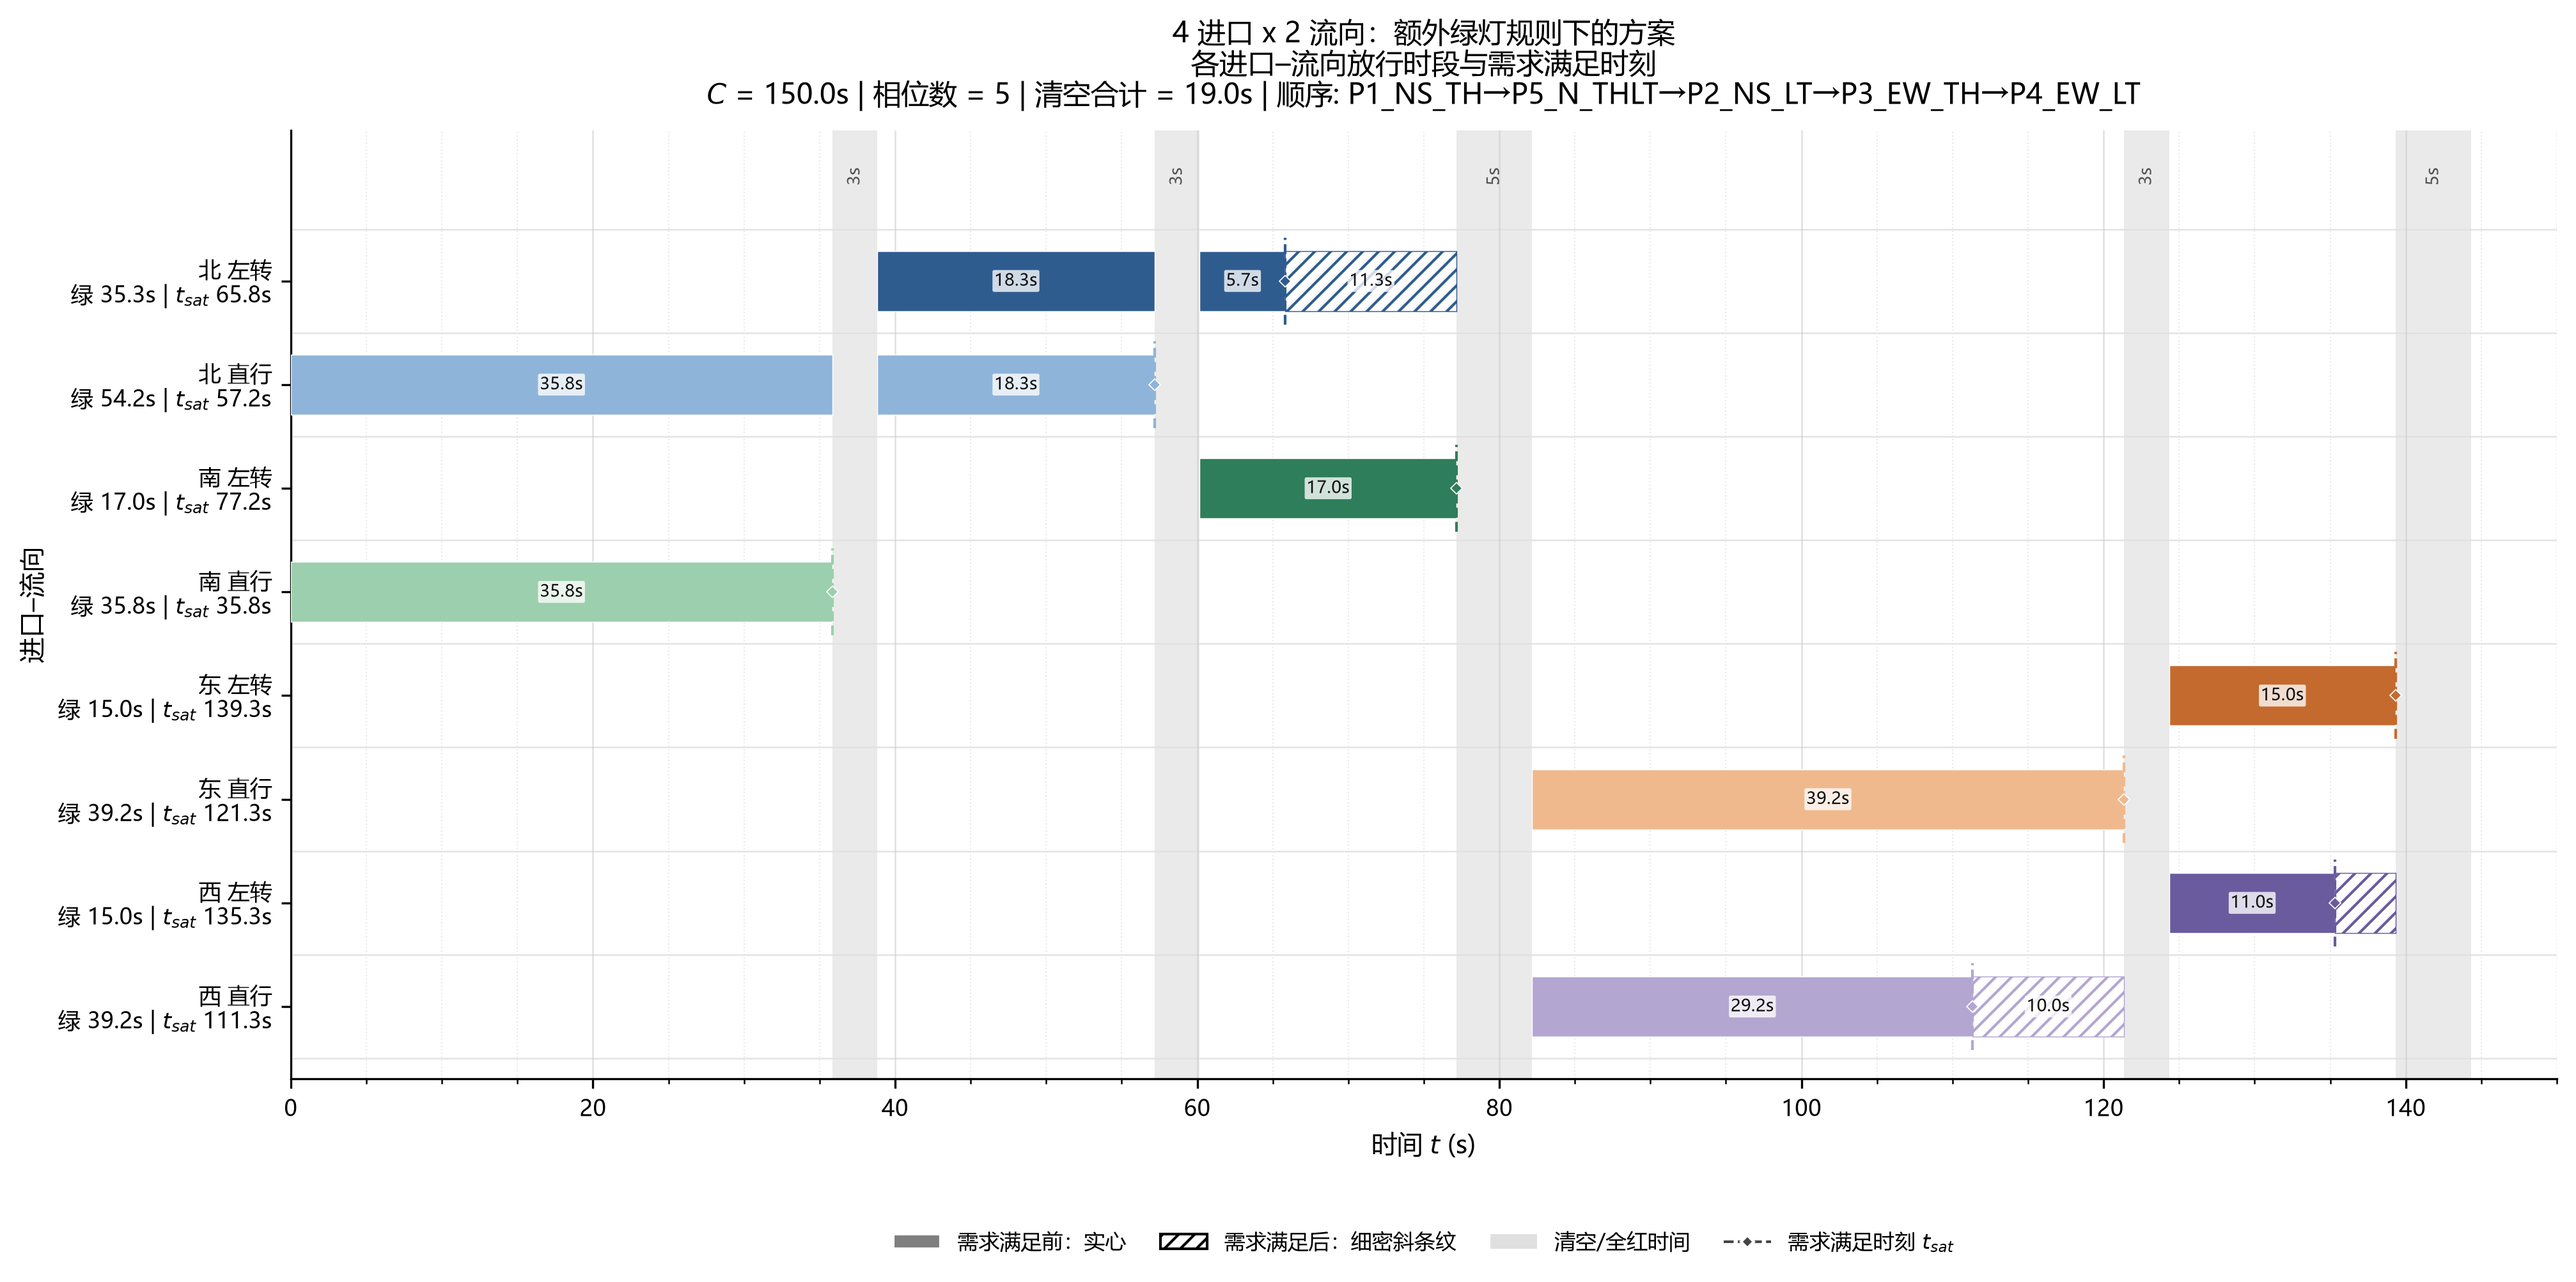
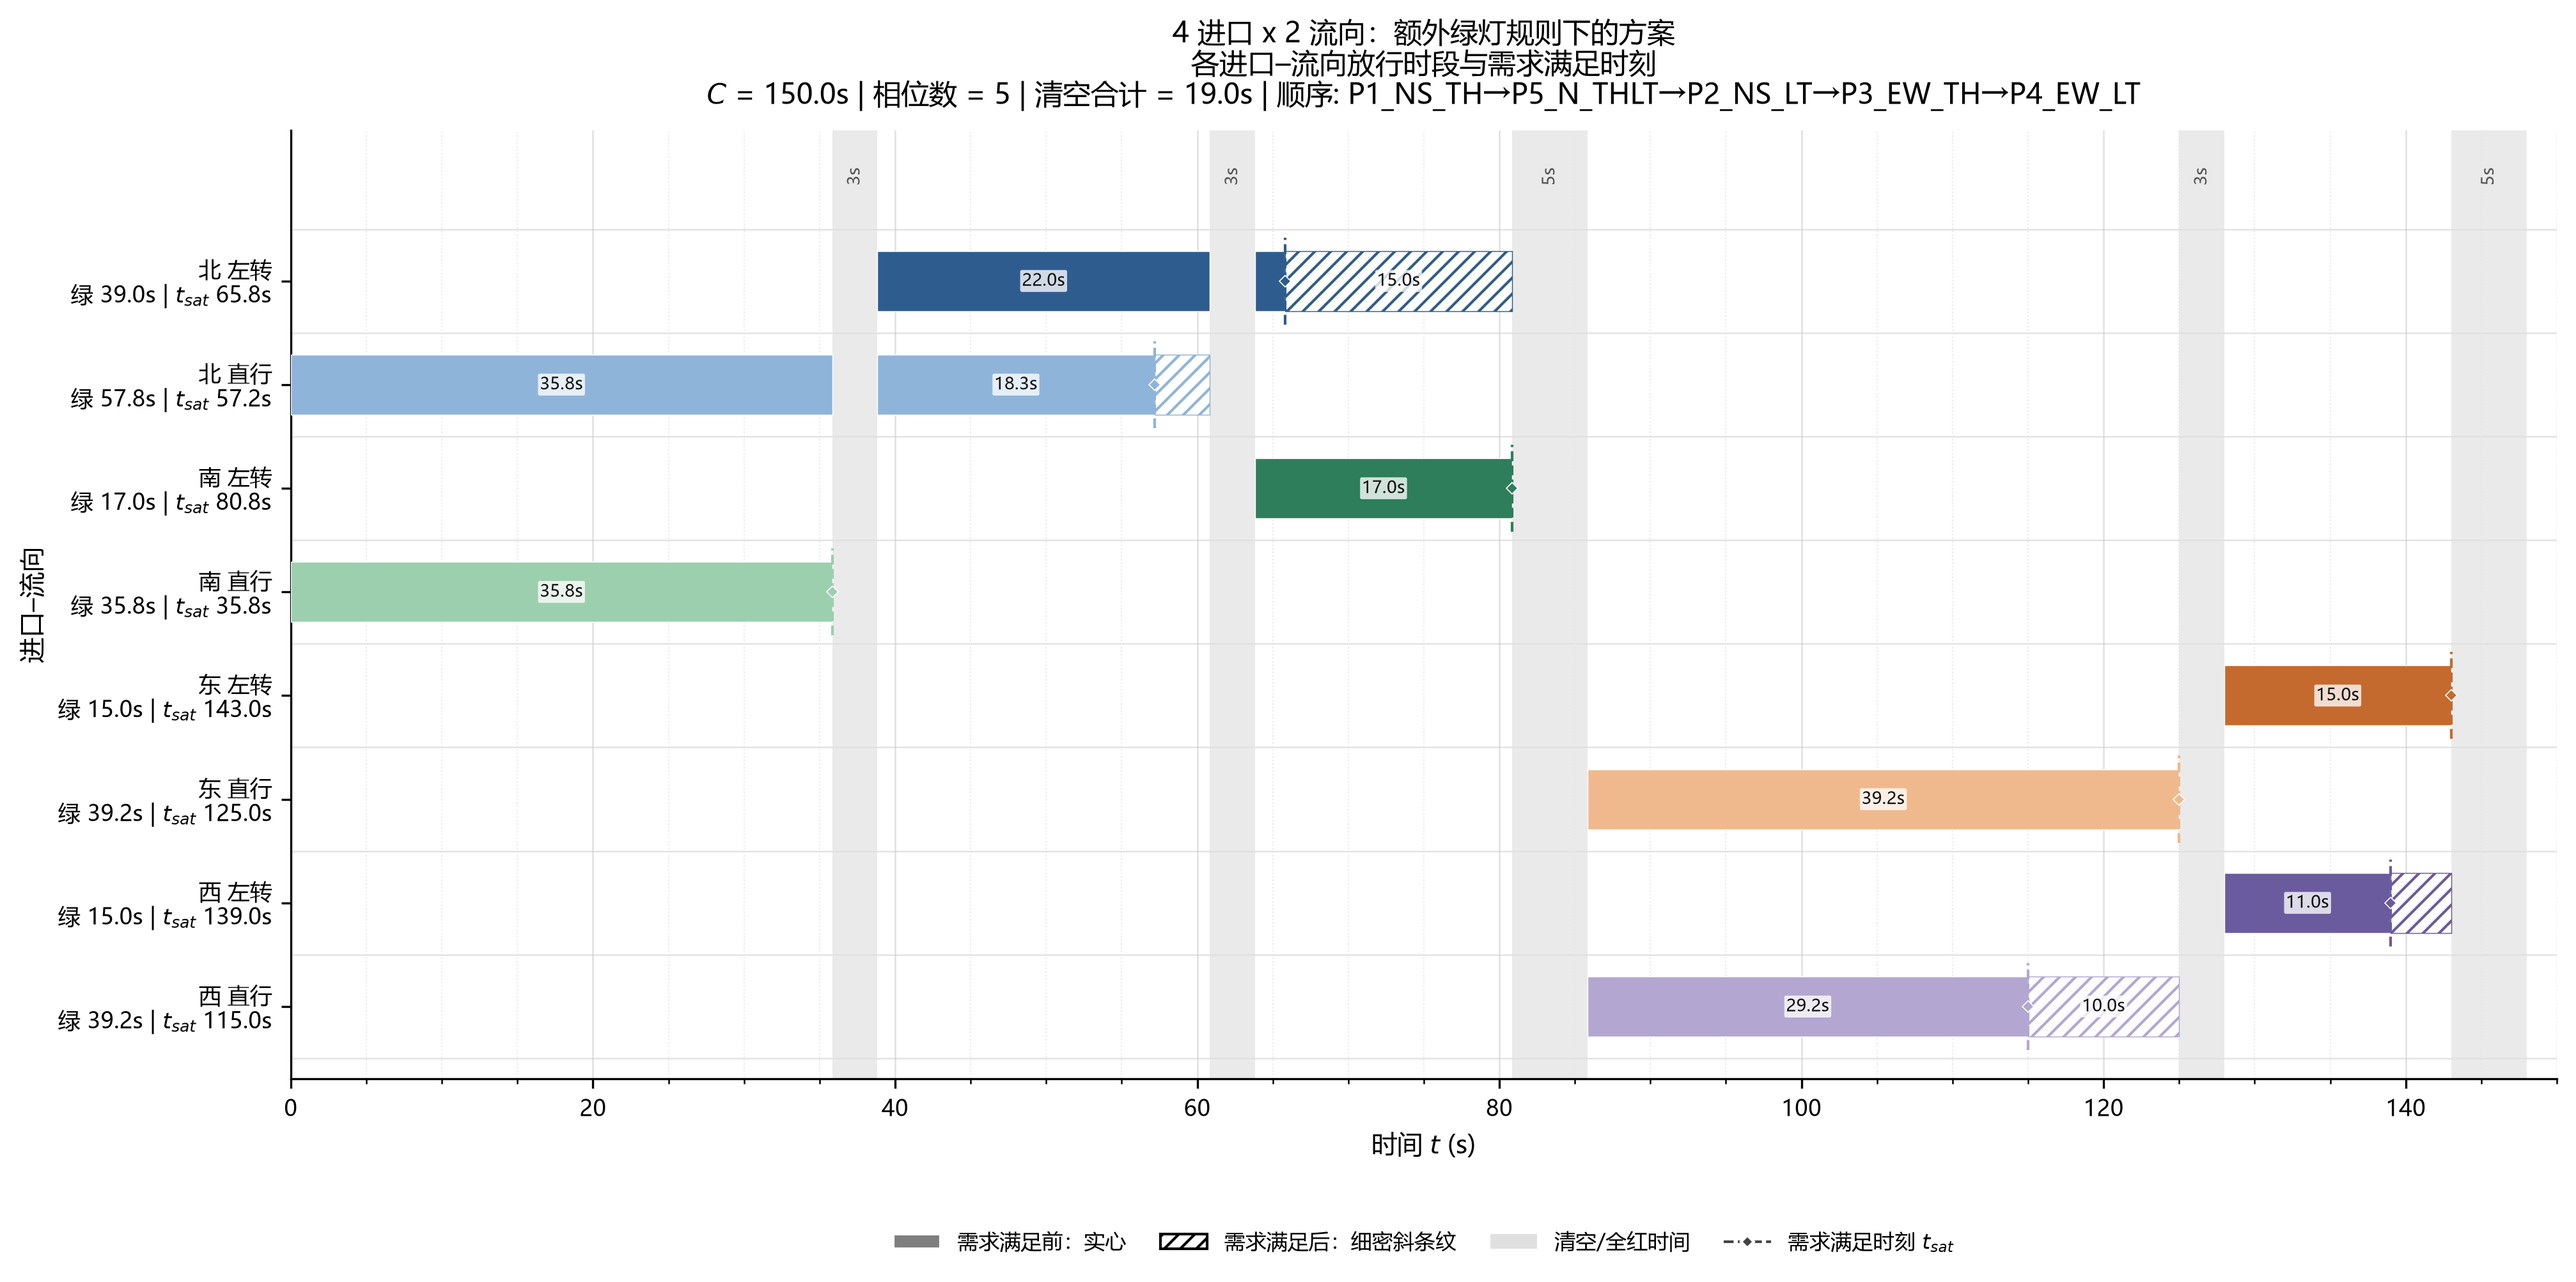
Make strict green case non-scaled via difference constraint

diff --git a/examples/four_approach_strict_green_case.py b/examples/four_approach_strict_green_case.py
@@ -4,7 +4,13 @@
 顺序案例基础上，人为增加两条规则：
 
 1. 所有被选中相位绿灯 >= 15s；
-2. P5_N_THLT + P2_NS_LT >= 32s（两者都选中时生效）。
+2. P5_N_THLT + P2_NS_LT >= 32s（两者都选中时生效）；
+3. P5_N_THLT - P2_NS_LT >= 5s（非齐次约束，用于打破统一最小绿导致的等比缩放）。
+
+说明：
+- 如果只把 g_min 从 11 提高到 15，模型会倾向于把原最优解整体放大，
+  因为所有主要约束和服务目标关于 (g, C) 都是齐次的；
+- 额外加入 P5 - P2 >= 5 这类含绝对差值的约束后，结果不再等比放大。
 
 运行：
     /home/qktx/artery_milp/conda-envs/artery_milp/bin/python examples/four_approach_strict_green_case.py
@@ -34,10 +40,16 @@ def main() -> None:
 
     opt = LexicographicOptimizer(data, mip_rel_gap=0.001, time_limit=60.0)
 
-    # 强制选中 P2_NS_LT，使 P5+P2 规则有意义。
+    # 强制选中 P2_NS_LT 和 P5_N_THLT，使两条规则都有意义。
     opt.add_constraint(ConstraintSpec(
         name="force_P2_NS_LT",
         coeffs={("y", "P2_NS_LT"): 1.0},
+        sense=">=",
+        rhs=1.0,
+    ))
+    opt.add_constraint(ConstraintSpec(
+        name="force_P5_N_THLT",
+        coeffs={("y", "P5_N_THLT"): 1.0},
         sense=">=",
         rhs=1.0,
     ))
@@ -48,6 +60,15 @@ def main() -> None:
         coeffs={("g", "P5_N_THLT"): 1.0, ("g", "P2_NS_LT"): 1.0},
         sense=">=",
         rhs=32.0,
+        trigger=Trigger.all_of("P5_N_THLT", "P2_NS_LT"),
+    ))
+
+    # 规则 3：P5_N_THLT - P2_NS_LT >= 5s，打破等比缩放。
+    opt.add_constraint(ConstraintSpec(
+        name="P5_minus_P2_ge_5",
+        coeffs={("g", "P5_N_THLT"): 1.0, ("g", "P2_NS_LT"): -1.0},
+        sense=">=",
+        rhs=5.0,
         trigger=Trigger.all_of("P5_N_THLT", "P2_NS_LT"),
     ))
 
@@ -75,8 +96,10 @@ def main() -> None:
     print("-" * 78)
     min_green = min(result.greens[p] for p in order)
     sum_p5_p2 = result.greens.get("P5_N_THLT", 0.0) + result.greens.get("P2_NS_LT", 0.0)
+    diff_p5_p2 = result.greens.get("P5_N_THLT", 0.0) - result.greens.get("P2_NS_LT", 0.0)
     print(f"最小选中绿灯 = {min_green:.3f} s  （规则要求 >= 15s）")
     print(f"P5_N_THLT + P2_NS_LT = {sum_p5_p2:.3f} s  （规则要求 >= 32s）")
+    print(f"P5_N_THLT - P2_NS_LT = {diff_p5_p2:.3f} s  （规则要求 >= 5s）")
     print("=" * 78)
 
     out_path = os.path.join(

diff --git a/tests/test_four_approach_case.py b/tests/test_four_approach_case.py
@@ -150,10 +150,28 @@ class TestFourApproachOverlapCase(unittest.TestCase):
         )
         opt.add_constraint(
             ConstraintSpec(
+                name="force_P5_N_THLT",
+                coeffs={("y", "P5_N_THLT"): 1.0},
+                sense=">=",
+                rhs=1.0,
+            )
+        )
+        opt.add_constraint(
+            ConstraintSpec(
                 name="P5_plus_P2_min_32",
                 coeffs={("g", "P5_N_THLT"): 1.0, ("g", "P2_NS_LT"): 1.0},
                 sense=">=",
                 rhs=32.0,
+                trigger=Trigger.all_of("P5_N_THLT", "P2_NS_LT"),
+            )
+        )
+        # 非齐次约束：打破 g_min 统一提高导致的等比缩放
+        opt.add_constraint(
+            ConstraintSpec(
+                name="P5_minus_P2_ge_5",
+                coeffs={("g", "P5_N_THLT"): 1.0, ("g", "P2_NS_LT"): -1.0},
+                sense=">=",
+                rhs=5.0,
                 trigger=Trigger.all_of("P5_N_THLT", "P2_NS_LT"),
             )
         )
@@ -164,6 +182,10 @@ class TestFourApproachOverlapCase(unittest.TestCase):
         self.assertGreaterEqual(
             result.greens["P5_N_THLT"] + result.greens["P2_NS_LT"],
             32.0 - 1e-6,
+        )
+        self.assertGreaterEqual(
+            result.greens["P5_N_THLT"] - result.greens["P2_NS_LT"],
+            5.0 - 1e-6,
         )
 
     def test_ns_then_ew_reference_order(self):

diff --git a/算法库使用说明.md b/算法库使用说明.md
@@ -1373,34 +1373,47 @@ result = opt.solve(reference_mode="none")
 完整示例见 `examples/four_approach_sequence_case.py`。
 
 
-### 10.4 额外绿灯规则案例
+### 10.4 额外绿灯规则案例：如何避免等比缩放
 
-在“南北组 → 东西组”顺序案例基础上，可以人为增加两条规则：
+在“南北组 → 东西组”顺序案例基础上，增加三条规则：
 
 1. 所有被选中相位绿灯 >= 15s；
-2. `P5_N_THLT + P2_NS_LT >= 32s`（两者都选中时生效）。
+2. `P5_N_THLT + P2_NS_LT >= 32s`；
+3. `P5_N_THLT - P2_NS_LT >= 5s`（非齐次约束，用于打破统一最小绿导致的等比缩放）。
 
 实现：
 
 ```python
 # 规则 1：所有选中相位绿灯 >= 15s
-# 半连续联动会自动实现“未选中为 0、选中 >=15s”
 data.g_min = 15.0
 
 opt = LexicographicOptimizer(data, mip_rel_gap=0.001)
 
-# 强制选中 P2，使 P5+P2 规则有意义
+# 强制选中 P2 和 P5，使规则 2、3 都有意义
 opt.add_constraint(ConstraintSpec(
     name="force_P2_NS_LT",
     coeffs={("y", "P2_NS_LT"): 1.0},
     sense=">=", rhs=1.0,
 ))
+opt.add_constraint(ConstraintSpec(
+    name="force_P5_N_THLT",
+    coeffs={("y", "P5_N_THLT"): 1.0},
+    sense=">=", rhs=1.0,
+))
 
-# 规则 2：P5_N_THLT + P2_NS_LT >= 32s，仅当两者都选中时触发
+# 规则 2：P5_N_THLT + P2_NS_LT >= 32s
 opt.add_constraint(ConstraintSpec(
     name="P5_plus_P2_min_32",
     coeffs={("g", "P5_N_THLT"): 1.0, ("g", "P2_NS_LT"): 1.0},
     sense=">=", rhs=32.0,
+    trigger=Trigger.all_of("P5_N_THLT", "P2_NS_LT"),
+))
+
+# 规则 3：P5_N_THLT - P2_NS_LT >= 5s（非齐次，打破缩放）
+opt.add_constraint(ConstraintSpec(
+    name="P5_minus_P2_ge_5",
+    coeffs={("g", "P5_N_THLT"): 1.0, ("g", "P2_NS_LT"): -1.0},
+    sense=">=", rhs=5.0,
     trigger=Trigger.all_of("P5_N_THLT", "P2_NS_LT"),
 ))
 
@@ -1411,35 +1424,56 @@ result = opt.solve(reference_mode="hard")
 
 ```text
 最终周期 C = 150.000 s
-第一阶段 C* = 152.027 s
+第一阶段 C* = 173.077 s
 选中相位 = P1_NS_TH, P2_NS_LT, P3_EW_TH, P4_EW_LT, P5_N_THLT
 相位顺序 = P1_NS_TH → P5_N_THLT → P2_NS_LT → P3_EW_TH → P4_EW_LT
 
 P1_NS_TH   35.833 s
-P5_N_THLT  18.333 s
+P5_N_THLT  22.000 s
 P2_NS_LT   17.000 s
 P3_EW_TH   39.167 s
 P4_EW_LT   15.000 s
 
 最小选中绿灯 = 15.000 s
-P5_N_THLT + P2_NS_LT = 35.333 s
+P5_N_THLT + P2_NS_LT = 39.000 s
+P5_N_THLT - P2_NS_LT = 5.000 s
 ```
 
-对照实验：
+### 为什么必须加规则 3
 
-| 场景 | 周期 | 最小绿灯 | P5+P2 |
-|---|---:|---:|---:|
-| 原始（g_min=11，无额外规则） | 115.541 s | 11.554 s | 27.216 s |
-| 仅 `g_min=15` | 150.000 s | 15.000 s | 35.333 s |
-| 仅 `P5+P2>=32` | 135.849 s | 13.585 s | 32.000 s |
-| 两条规则同时 | 150.000 s | 15.000 s | 35.333 s |
+如果只把 `g_min` 从 11 提高到 15，模型会倾向于把原最优解整体等比放大：
+
+```text
+原解最小绿灯 P4_EW_LT = 11.554s
+λ = 15 / 11.554 ≈ 1.2982
+```
+
+由于服务能力约束、环约束和目标函数基本是关于 `(g, C)` 的一次齐次式，把原解整体乘以 `λ` 后：
+
+- 服务能力自动满足；
+- 最小绿灯正好达到 15s；
+- `P5+P2` 从 27.216s 被动放大到 35.333s，超过 32s；
+- 所以 `P5+P2>=32` 这条规则在缩放解上并不紧，结果看起来就是原方案等比放大。
+
+加入 `P5 - P2 >= 5` 后，约束含绝对差值，整体缩放不再保持可行，因此结果不再是原解的比例放大。
+
+### 对照实验
+
+| 场景 | 周期 | P5 | P2 | P5+P2 | 最小绿灯 |
+|---|---:|---:|---:|---:|---:|
+| 原始（g_min=11，无额外规则） | 115.541s | 14.122 | 13.095 | 27.216 | 11.554 |
+| 仅 `g_min=15` | 150.000s | 18.333 | 17.000 | 35.333 | 15.000 |
+| `g_min=15` + `P5+P2>=32` | 150.000s | 18.333 | 17.000 | 35.333 | 15.000 |
+| `g_min=15` + `P5+P2>=32` + `P5-P2>=5` | 150.000s | 22.000 | 17.000 | 39.000 | 15.000 |
+| `g_min=15` + `P5+P2>=36` | 152.500s | 18.639 | 17.361 | 36.000 | 15.250 |
+| `g_min=15` + `P5+P2>=40` | 162.500s | 19.861 | 20.139 | 40.000 | 16.250 |
 
 结论：
 
-- 当前案例中 `g_min=15` 是主导规则，单独使用就把周期推到 150s；
-- 此时 `P5+P2` 已经被动达到 35.333s，因此 `P5+P2>=32` 不再额外收紧；
-- 如果只加 `P5+P2>=32`，周期为 135.849s，P5+P2 恰好为 32s；
-- 若要求严格“大于 32s”，可把 `rhs` 改为 `32.0 + 1e-3` 或合适的小正数。
+- “等比放大”不是求解器错误，而是线性齐次模型的正常性质；
+- 如果希望 `P5+P2>=32` 真正成为紧约束，可以把阈值提高到 36s 或 40s；
+- 如果希望保留 32s 阈值但得到非等比分配，可以加入 `P5-P2>=5` 这样的非齐次约束；
+- 当前案例中加入该约束后，周期仍为 150s，但 `P5` 绿灯从 18.333s 增加到 22s，`P2` 保持 17s。
 
 完整示例见 `examples/four_approach_strict_green_case.py`。
 

diff --git a/README_实现说明.md b/README_实现说明.md
@@ -65,7 +65,8 @@ cd /mnt/e/PythonProjects/intersection_milp
 - 指定相位顺序约束/分层参考顺序：南北组（直行 → 搭接 → 左转）→
   东西组（直行 → 搭接 → 左转）；
 - 分层参考顺序：支持“同层相位可互换”的全局参考顺序和 `hard`/`prefer`/`soft` 三种模式；
-- 额外绿灯规则：所有选中相位绿灯 ≥15s、`P5_N_THLT + P2_NS_LT ≥ 32s`。
+- 额外绿灯规则：所有选中相位绿灯 ≥15s、`P5_N_THLT + P2_NS_LT ≥ 32s`，
+  以及 `P5_N_THLT - P2_NS_LT ≥ 5s` 非齐次约束（用于打破等比缩放）。
 
 ## 4. 与设计文档的对应
 
